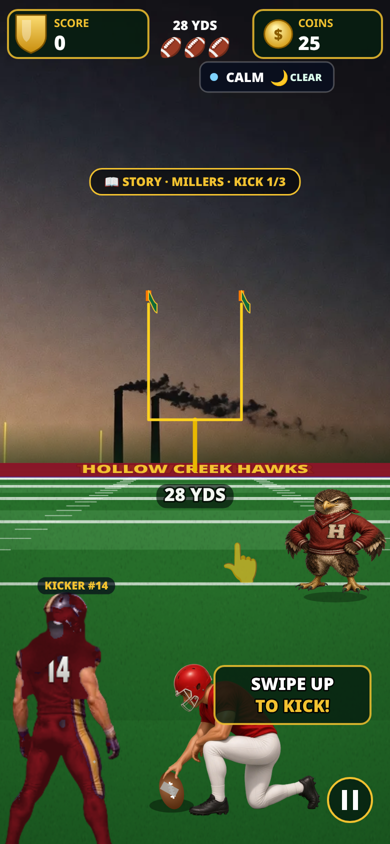
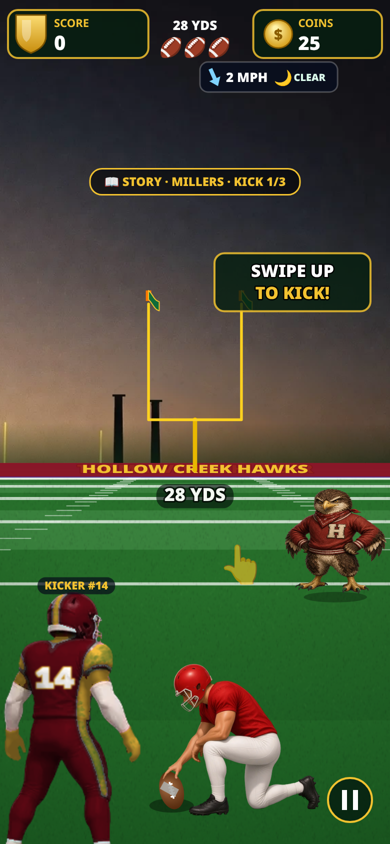
Story kicker: short-hair row 1 recoloured Hawks maroon/gold #14 (story-only sprite, drop nohair patch); S2 field without chimney smoke; swipe hint moved off Wes

diff --git a/index.html b/index.html
@@ -25,4 +25,4 @@
 <script src="s31.js?v=1792273000"></script>
 <script src="s32.js?v=1792273000"></script>
 <script src="s33.js"></script>
-<script src="s34.js?v=1792273000"></script><script src="s35.js?v=1792273000"></script><script src="s36.js?v=1792273000"></script><script src="s37.js?v=1792273000"></script><script src="i18n_es.js?v=1792288000"></script><script src="s38.js?v=1792275000"></script><script src="s39.js?v=1792273000"></script><script src="s40.js?v=1792273000"></script><script src="s41.js?v=1792273000"></script><script src="s42.js?v=1792273000"></script><script src="s43.js?v=1792273000"></script><script src="s44.js?v=1792273000"></script><script src="s45.js?v=1792273000"></script><script src="s46.js?v=1792279000"></script><script src="s47.js?v=1792273000"></script><script src="s48.js?v=1792273000"></script><script src="s49.js?v=1792288000"></script><script src="s50.js?v=1792273000"></script><script src="s51.js?v=1792273000"></script><script src="s52.js?v=1792273000"></script><script src="s53.js?v=1792273000"></script><script src="s54.js?v=1792273000"></script><script src="s55.js?v=1792273000"></script><script src="s56.js?v=1792273000"></script><script src="s57.js?v=1792273000"></script><script src="s58.js?v=1792273000"></script><script src="s59.js?v=1792273000"></script><script src="s60.js?v=1792273000"></script><script src="s61.js?v=1792273000"></script><script src="s62.js?v=1792278100"></script><script src="s63.js?v=1792273000"></script><script src="s64.js?v=1792273000"></script><script src="s65a.js?v=1792273000"></script><script src="s65.js?v=1792273000"></script><script src="s66.js?v=1792273000"></script><script src="s67.js?v=1792283000"></script><script src="s68.js?v=1792273000"></script><script src="s69.js?v=1792273000"></script><script src="s70.js?v=1792273000"></script><script src="s71.js?v=1792278000"></script><script src="s72.js?v=1792273000"></script><script src="s73.js?v=1792273000"></script><script src="s74.js?v=1792273000"></script><script src="s75.js?v=1792273000"></script><script src="s76.js?v=1792273000"></script><script src="s77.js?v=1792273000"></script><script src="s78.js?v=1792273000"></script><script src="s79.js?v=1792275000"></script><script src="s80.js?v=1792273000"></script><script src="s81.js?v=1792273000"></script><script src="s82.js?v=1792273000"></script><script src="s83.js?v=1792273000"></script><script src="s84.js?v=1792273000"></script><script src="s85.js?v=1792273000"></script><script src="s86.js?v=1792273100"></script><script src="s87.js?v=1792273000"></script><script src="s88.js?v=1792278000"></script><script src="s89.js?v=1792274000"></script><script src="story-kid.js?v=1792340000"></script><script src="story1.js?v=1792600000"></script><script src="s90.js?v=1792274000"></script><script src="s91.js?v=1792275000"></script><script src="s92.js?v=1792282000"></script><script src="s93.js?v=1792277100"></script><script src="s94.js?v=1792285000"></script><script src="s95.js?v=1792278100"></script><script src="s96.js?v=1792279100"></script><script src="s97.js?v=1792280100"></script><script src="s98.js?v=1792281100"></script><script src="s99.js?v=1792282100"></script><script src="s100.js?v=1792282100"></script><script src="s101.js?v=1792283100"></script><script src="s102.js?v=1792285100"></script><script src="s103.js?v=1792285100"></script><script src="s104.js?v=1792285100"></script><script src="s105.js?v=1792286000"></script><script src="s106.js?v=1792287000"></script><script src="s107.js?v=1792287000"></script><script src="s108.js?v=1792288000"></script><script src="s109.js?v=1792310000"></script></body></html>
+<script src="s34.js?v=1792273000"></script><script src="s35.js?v=1792273000"></script><script src="s36.js?v=1792273000"></script><script src="s37.js?v=1792273000"></script><script src="i18n_es.js?v=1792288000"></script><script src="s38.js?v=1792275000"></script><script src="s39.js?v=1792273000"></script><script src="s40.js?v=1792273000"></script><script src="s41.js?v=1792273000"></script><script src="s42.js?v=1792273000"></script><script src="s43.js?v=1792273000"></script><script src="s44.js?v=1792273000"></script><script src="s45.js?v=1792273000"></script><script src="s46.js?v=1792279000"></script><script src="s47.js?v=1792273000"></script><script src="s48.js?v=1792273000"></script><script src="s49.js?v=1792288000"></script><script src="s50.js?v=1792273000"></script><script src="s51.js?v=1792273000"></script><script src="s52.js?v=1792273000"></script><script src="s53.js?v=1792273000"></script><script src="s54.js?v=1792273000"></script><script src="s55.js?v=1792273000"></script><script src="s56.js?v=1792273000"></script><script src="s57.js?v=1792273000"></script><script src="s58.js?v=1792273000"></script><script src="s59.js?v=1792273000"></script><script src="s60.js?v=1792273000"></script><script src="s61.js?v=1792273000"></script><script src="s62.js?v=1792278100"></script><script src="s63.js?v=1792273000"></script><script src="s64.js?v=1792273000"></script><script src="s65a.js?v=1792273000"></script><script src="s65.js?v=1792273000"></script><script src="s66.js?v=1792273000"></script><script src="s67.js?v=1792283000"></script><script src="s68.js?v=1792273000"></script><script src="s69.js?v=1792273000"></script><script src="s70.js?v=1792273000"></script><script src="s71.js?v=1792278000"></script><script src="s72.js?v=1792273000"></script><script src="s73.js?v=1792273000"></script><script src="s74.js?v=1792273000"></script><script src="s75.js?v=1792273000"></script><script src="s76.js?v=1792273000"></script><script src="s77.js?v=1792273000"></script><script src="s78.js?v=1792273000"></script><script src="s79.js?v=1792275000"></script><script src="s80.js?v=1792273000"></script><script src="s81.js?v=1792273000"></script><script src="s82.js?v=1792273000"></script><script src="s83.js?v=1792273000"></script><script src="s84.js?v=1792273000"></script><script src="s85.js?v=1792273000"></script><script src="s86.js?v=1792273100"></script><script src="s87.js?v=1792273000"></script><script src="s88.js?v=1792278000"></script><script src="s89.js?v=1792274000"></script><script src="story-kid.js?v=1792340000"></script><script src="story1.js?v=1792610000"></script><script src="s90.js?v=1792274000"></script><script src="s91.js?v=1792275000"></script><script src="s92.js?v=1792282000"></script><script src="s93.js?v=1792277100"></script><script src="s94.js?v=1792285000"></script><script src="s95.js?v=1792278100"></script><script src="s96.js?v=1792279100"></script><script src="s97.js?v=1792280100"></script><script src="s98.js?v=1792281100"></script><script src="s99.js?v=1792282100"></script><script src="s100.js?v=1792282100"></script><script src="s101.js?v=1792283100"></script><script src="s102.js?v=1792285100"></script><script src="s103.js?v=1792285100"></script><script src="s104.js?v=1792285100"></script><script src="s105.js?v=1792286000"></script><script src="s106.js?v=1792287000"></script><script src="s107.js?v=1792287000"></script><script src="s108.js?v=1792288000"></script><script src="s109.js?v=1792310000"></script></body></html>

diff --git a/story1.js b/story1.js
@@ -271,8 +271,9 @@ const ST={kick:null};
 const oR=S3.onResult;S3.onResult=function(good){const r=oR.apply(this,arguments);try{if(mode==='story'&&ST.kick){lives=3;prevLives=3;const j=ST.kick.jug;ST.kick=null;ST.tb=0;setTimeout(()=>j&&JG?jugAfter(!!good):after(!!good),1700)}}catch(e){}return r};
 const odb=drawBall;drawBall=function(){const r=odb.apply(this,arguments);try{if(state==='play'&&mode==='story'&&(ST.kick||ball.fly)){ctx.save();ctx.fillStyle='rgba(0,0,0,.55)';const w=210,x=W/2-w/2,y=H*0.2;ctx.beginPath();ctx.roundRect(x,y,w,26,12);ctx.fill();ctx.strokeStyle=GOLD;ctx.lineWidth=1.5;ctx.stroke();ctx.fillStyle=GOLD;ctx.font='900 12px system-ui';ctx.textAlign='center';ctx.fillText(JG?'📖 STORY · KICK THE JUG '+Math.min(3,JG.streak+1)+'/3':'📖 STORY · '+(K?WK[K.w].opp.split(' ').slice(-1)[0].toUpperCase()+' · ':'')+'KICK '+(ST.kick?ST.kick.lab:''),W/2,y+17,w-10);ctx.restore()}}catch(e){}return r};
 // ---------- Hollow Creek field: Friday night lights + small bleachers (story kicks only) ----------
-const HC=new Image();if(ART.has('field'))HC.src=IMG('field');const SKY=()=>state==='play'&&mode==='story';
-const oBG=drawBG;drawBG=function(){const r=oBG.apply(this,arguments);try{if(SKY()&&!JG&&(!K||WK[K.w].home)&&HC.complete&&HC.naturalWidth){const b=GP(0,0,dist+0.2),hz=(window.EZ||(b&&b.y)||H*0.42)-((window.SCL||1)*7);
+const HC1=new Image();if(ART.has('field'))HC1.src=IMG('field');const HC2=new Image();HC2.src='story/field_s2.webp?v=1792610000';// S2: same field, mill closed (smoke painted out)
+let HC=HC1;const SKY=()=>state==='play'&&mode==='story';
+const oBG=drawBG;drawBG=function(){HC=(SEA===2&&HC2.complete&&HC2.naturalWidth)?HC2:HC1;const r=oBG.apply(this,arguments);try{if(SKY()&&!JG&&(!K||WK[K.w].home)&&HC.complete&&HC.naturalWidth){const b=GP(0,0,dist+0.2),hz=(window.EZ||(b&&b.y)||H*0.42)-((window.SCL||1)*7);
  // painted backdrop above the end line: sky, mill chimneys, water tower, light tower and the little home bleachers
  const iw=HC.naturalWidth,ih=HC.naturalHeight,sy=ih*0.53,sc=Math.max(W/iw,hz/sy);ctx.save();ctx.beginPath();ctx.rect(0,0,W,hz);ctx.clip();ctx.drawImage(HC,0,0,iw,sy,W/2-iw*sc/2,hz-sy*sc,iw*sc,sy*sc);
  const g=ctx.createLinearGradient(0,hz-40,0,hz);g.addColorStop(0,'rgba(10,40,20,0)');g.addColorStop(1,'rgba(10,40,20,.55)');ctx.fillStyle=g;ctx.fillRect(0,hz-40,W,40);
@@ -369,11 +370,13 @@ function hawkify(src,ti){if(!src||!src.width)return src;let m=RC.get(src);if(m&&
   if(to){const k=Math.max(0.35,Math.min(1.5,H[2]/Math.max(0.15,ref[2])));a[i]=Math.min(255,to[0]*k);a[i+1]=Math.min(255,to[1]*k);a[i+2]=Math.min(255,to[2]*k)}}
  x.putImageData(d,0,0);RC.set(src,{ti,c});return c}
 // Story kicker: same sheet with the long hair painted out under the helmet (frames/poses identical; story kicks only)
-const NHI=new Image();NHI.src='story/kickers_nohair.webp?v=1792600000';const NHC={},LONGHAIR=new Set([0,3,5,6,7]);
+const NHI={complete:false};const NHC={},LONGHAIR=new Set([0,3,5,6,7]);
 function noHair(s,ti){if(MK.on||!LONGHAIR.has(ti)||!NHI.complete||!NHI.naturalWidth||!s||s.width!==812||s.height!==300)return s;if(NHC[ti]&&NHC[ti].__s===s)return NHC[ti];const c=document.createElement('canvas');c.width=812;c.height=300;const x=c.getContext('2d');x.drawImage(s,0,0);if(!NHI.__d){const t=document.createElement('canvas');t.width=812;t.height=NHI.naturalHeight;t.getContext('2d').drawImage(NHI,0,0);NHI.__d=t.getContext('2d').getImageData(0,0,812,NHI.naturalHeight).data}
  const d=x.getImageData(0,0,812,300),a=d.data,P2=NHI.__d,o=ti*300*812*4;for(let i=0;i<a.length;i+=4){const q=o+i;if(P2[q+3]<128)continue;if(P2[q]<20&&P2[q+1]>230&&P2[q+2]<20){a[i+3]=0;continue}
  a[i]=P2[q];a[i+1]=P2[q+1];a[i+2]=P2[q+2];a[i+3]=Math.min(255,(P2[q+3]-128)*2)}/* retouched neck: rgb + feathered alpha */x.putImageData(d,0,0);c.__s=s;return NHC[ti]=c}
-{const ok=S5.kimg;S5.kimg=function(ti,p2){const s=ok.apply(this,arguments);try{if(isStory()&&!p2&&!(MK.on&&MK.masc>=0))return hawkify(noHair(s,ti),ti)}catch(e){}return s}}
+// Story kicker: a short-hair row of kickers.webp (row 1) recoloured to Hawks maroon/gold; same 4 frames, size and timing (story only)
+const SKI=new Image();SKI.src='story/kicker_story.webp?v=1792610000';let SKC=null;
+{const ok=S5.kimg;S5.kimg=function(ti,p2){const s=ok.apply(this,arguments);try{if(isStory()&&!p2&&!(MK.on&&MK.masc>=0)&&s&&s.width===812){if(SKI.complete&&SKI.naturalWidth){if(!SKC){SKC=document.createElement('canvas');SKC.width=812;SKC.height=300;SKC.getContext('2d').drawImage(SKI,0,0)}return SKC}return hawkify(s,ti)}}catch(e){}return s}}
 // ---- Hawks mascot on our sideline: the game's hawk mascot, tinted Hollow Creek red ----
 const HAWKS_T=Math.max(0,TEAMS.findIndex(t=>t.k==='hawks'));
 // Hollow Creek's own hawk (new art, same 193x200 cell + same sideline animation)
@@ -400,7 +403,7 @@ function yard(){const hz=hz0();ctx.save();
  const g=ctx.createLinearGradient(0,0,0,hz);g.addColorStop(0,'#3a4c6e');g.addColorStop(0.55,'#c99a78');g.addColorStop(1,'#e9c79a');ctx.fillStyle=g;ctx.fillRect(0,0,W,hz);
  // mill chimneys with smoke, far away in the haze
  ctx.fillStyle='rgba(84,90,98,.85)';[[0.66,0.58],[0.72,0.54]].forEach(([u,t])=>{ctx.fillRect(W*u,hz*t,W*0.022,hz*(1-t))});
- ctx.fillStyle='rgba(200,200,205,.35)';for(let i=0;i<7;i++){ctx.beginPath();ctx.arc(W*0.735+i*W*0.035,hz*0.5-i*hz*0.025,6+i*3,0,7);ctx.fill()}
+ ctx.fillStyle='rgba(200,200,205,.35)';if(SEA!==2)for(let i=0;i<7;i++){ctx.beginPath();ctx.arc(W*0.735+i*W*0.035,hz*0.5-i*hz*0.025,6+i*3,0,7);ctx.fill()}
  ctx.fillStyle='rgba(120,128,130,.7)';ctx.fillRect(0,hz*0.8,W,hz*0.2);// far rooftops
  ctx.fillStyle='rgba(225,215,200,.45)';ctx.fillRect(0,hz*0.72,W,hz*0.28);// morning fog
  // wooden backyard fence
@@ -501,6 +504,10 @@ const odb5=drawBall;drawBall=function(){if(!HOLD())return odb5.apply(this,argume
  try{if(!ball.fly&&HP&&HIMG.h.complete&&HIMG.h.naturalWidth&&!tip)hImg(HIMG.h,HP)}catch(e){}
  try{if(!ball.fly&&tip){ctx.save();ctx.fillStyle='#e0b08e';ctx.beginPath();ctx.ellipse(tip.x+u2(HP),tip.y,HP.r*0.28,HP.r*0.42,0.3,0,7);ctx.fill();ctx.restore()}}catch(e){}
  return r};
+// S2 kicks: lift the SWIPE UP / TO KICK! hint above the holder so it never covers Wes (story only)
+{const op=panel,ot=txt;let sh=0,y0=0,n=0;
+ panel=function(x,y,w,h){sh=0;try{if(HOLD()&&state==='play'&&!ball.fly&&h===58&&Math.abs(w-W*0.4)<1){const ny=H*0.30;sh=ny-y;y0=y;n=0;y=ny}}catch(e){}return op.call(this,x,y,w,h)};
+ txt=function(t,x,y){if(sh&&y>=y0&&y<=y0+58&&n<2){arguments[2]=y+sh;if(++n>=2)sh=0}return ot.apply(this,arguments)}}
 const u2=h=>h.r*0.15;
 // back from the Kicker Creator during kicker creation -> return to Story
 setInterval(()=>{if(window.__stMK&&state==='title'){window.__stMK=0;create()}},400);
